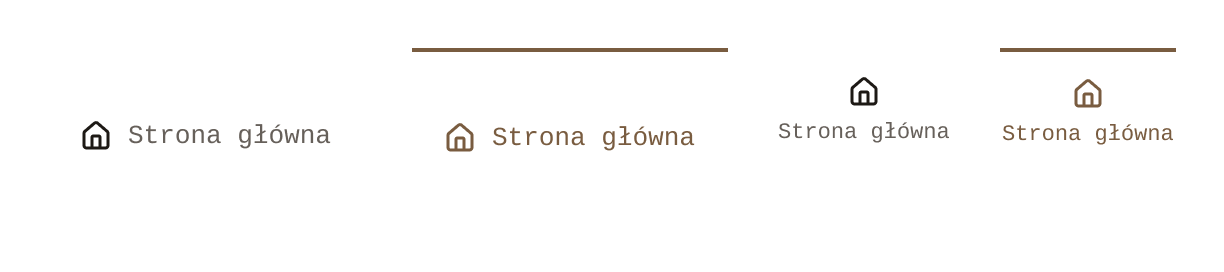
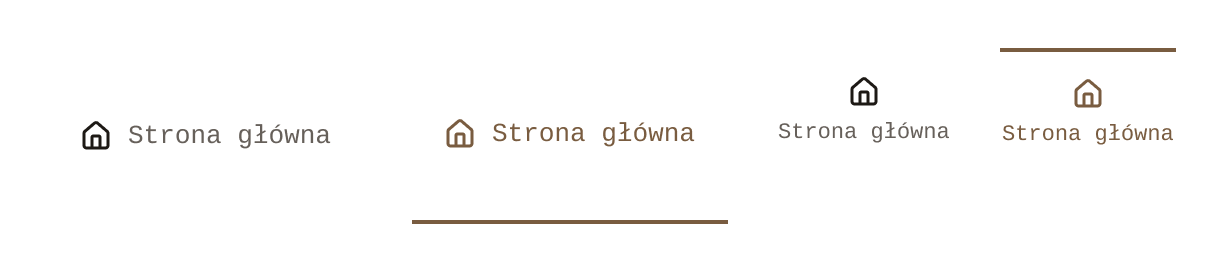
ARC-22: main navigation in a sticky header, without "Strona główna" (#87)
* ARC-22: main navigation in a sticky header, without "Strona główna"

Figma: the main navigation moves from the desktop footer to the site
header, before "O archiwum" and search; the header sticks to the top on
scroll; the active item is underlined. The home item is gone, since the
service name leads home. The mobile bottom bar keeps three items.

Code follows the re-exported design. The header row fits only from `lg`
up, so below `lg` the navigation stays a fixed bottom bar, and between
`lg` and `xl` the subtitle and navigation icons are hidden. R-07 is
updated in both story files.

* ARC-22: stretch only the navigation in the header; range variant for the compact header

---------

Changed region(s): [[0.3415, 0.4412, 0.5899, 0.5588], [0.3415, 0.7941, 0.5899, 0.8235], [0.3415, 0.1765, 0.5899, 0.2059]]

diff --git a/frontend/src/components/layout/SiteLayout.test.tsx b/frontend/src/components/layout/SiteLayout.test.tsx
@@ -6,7 +6,6 @@ import { axeViolations, renderRoute } from "@/test/render";
 import { server } from "@/test/server";
 
 const NAV_ITEMS = [
-  ["Strona główna", "/"],
   ["Utwory", "/utwory"],
   ["Maszynopisy", "/maszynopisy"],
   ["Tagi", "/tagi"],
@@ -123,7 +122,7 @@ describe("SiteLayout", () => {
     expect(within(header).getByRole("link", { name: "O archiwum" })).not.toHaveClass("hidden");
   });
 
-  it("US-RA-03 AC1: the main navigation lists Strona główna, Utwory, Maszynopisy, Tagi", async () => {
+  it("ARC-22: the main navigation lists Utwory, Maszynopisy, Tagi, with no home item", async () => {
     const { container } = renderRoute("/o-archiwum");
 
     const links = within(mainNav()).getAllByRole("link");
@@ -132,7 +131,6 @@ describe("SiteLayout", () => {
   });
 
   it.each([
-    ["/", "Strona główna"],
     ["/utwory", "Utwory"],
     ["/utwory/wertepy", "Utwory"],
     ["/maszynopisy", "Maszynopisy"],
@@ -147,7 +145,7 @@ describe("SiteLayout", () => {
     expect(await axeViolations(container)).toEqual([]);
   });
 
-  it.each(["/o-archiwum", "/szukaj", "/zapiski/1", "/teksty-sekundarne/1", "/materialy/1"])(
+  it.each(["/", "/o-archiwum", "/szukaj", "/zapiski/1", "/teksty-sekundarne/1", "/materialy/1"])(
     "US-RA-03 AC1: on %s no navigation item is active",
     (url) => {
       renderRoute(url);
@@ -156,30 +154,45 @@ describe("SiteLayout", () => {
     },
   );
 
-  it("US-RA-03 AC1: the footer shows the service name, subtitle, navigation and funding note", async () => {
+  it("US-RA-03 AC1: the footer shows the service name, subtitle and funding note", async () => {
     const { container } = renderRoute("/o-archiwum");
 
     const footer = screen.getByRole("contentinfo");
     expect(within(footer).getByText("Archivum Buczkovianum")).toBeVisible();
     expect(within(footer).getByText("Archiwum literackie Leopolda Buczkowskiego")).toBeVisible();
-    expect(within(footer).getByRole("navigation", { name: "Menu główne" })).toBe(mainNav());
     expect(within(footer).getByText(/finansowani/i)).toBeVisible();
     expect(await axeViolations(container)).toEqual([]);
   });
 
-  it("US-RA-03 AC1: the navigation is a bottom bar on mobile and sits in the footer on desktop", () => {
+  it("ARC-22: the navigation is in the header, not the footer", () => {
     renderRoute("/o-archiwum");
 
-    // Mobile first: fixed to the bottom of the viewport; from `md` up, part of the footer row.
-    expect(mainNav()).toHaveClass("fixed", "bottom-0", "md:static");
-    // The page leaves room for the bar on mobile, so it never covers the footer.
-    expect(screen.getByRole("contentinfo")).toHaveClass("pb-64", "md:pb-0");
+    expect(within(screen.getByRole("banner")).getByRole("navigation")).toBe(mainNav());
+    expect(within(screen.getByRole("contentinfo")).queryByRole("navigation")).toBeNull();
+  });
+
+  it("ARC-22: the navigation is a bottom bar below `lg` and part of the sticky header from `lg` up", () => {
+    renderRoute("/o-archiwum");
+
+    // Mobile and tablet: fixed to the bottom of the viewport. The header row fits the
+    // navigation, "O archiwum" and the search field only from `lg` up.
+    expect(mainNav()).toHaveClass("fixed", "bottom-0", "lg:static");
+    expect(screen.getByRole("banner")).toHaveClass("lg:sticky", "lg:top-0");
+    // The page leaves room for the bar, so it never covers the footer.
+    expect(screen.getByRole("contentinfo").parentElement).toHaveClass("pb-64", "lg:pb-0");
+  });
+
+  it("ARC-22: in the header the active item is underlined; in the bottom bar, overlined", () => {
+    renderRoute("/utwory");
+
+    // The header already has an accent strip along its top edge.
+    expect(currentNavItem()).toHaveClass("border-t-2", "lg:border-t-0", "lg:border-b-2");
   });
 
   it("ARC-5: a navigation label that wraps on mobile stays centred", () => {
     renderRoute("/o-archiwum");
 
-    // "Strona główna" breaks onto two lines on a narrow bar; the lines centre like the other labels.
+    // A long label breaks onto two lines on a narrow bar; the lines centre like the others.
     for (const [name] of NAV_ITEMS) {
       expect(within(mainNav()).getByRole("link", { name })).toHaveClass("text-center");
     }
@@ -194,17 +207,17 @@ describe("SiteLayout", () => {
     );
   });
 
-  it("ARC-27: the funding note never overlaps the navigation", () => {
+  it("ARC-22: between `lg` and `xl` the header drops the subtitle and the navigation icons", () => {
     renderRoute("/o-archiwum");
 
-    // A link that can't shrink spills past a shrunk bar, under the note. So the links shrink with
-    // the bar (labels wrap) on narrow desktops, and from `lg` the bar keeps their full width.
-    expect(mainNav()).toHaveClass("lg:shrink-0");
-    for (const [name] of NAV_ITEMS) {
-      expect(within(mainNav()).getByRole("link", { name })).toHaveClass(
-        "md:flex-initial",
-        "lg:flex-none",
-      );
+    // At 1024 px the full row (about 1060 px) is wider than the 896 px of content.
+    const header = screen.getByRole("banner");
+    expect(within(header).getByText("Archiwum literackie")).toHaveClass(
+      "hidden",
+      "lg:max-xl:hidden",
+    );
+    for (const icon of mainNav().querySelectorAll("svg")) {
+      expect(icon).toHaveClass("lg:max-xl:hidden");
     }
   });
 

diff --git a/frontend/src/components/layout/MainNav.tsx b/frontend/src/components/layout/MainNav.tsx
@@ -1,7 +1,7 @@
 import type { ComponentType, SVGProps } from "react";
 import { NavLink } from "react-router";
 
-import { HomeIcon, LibraryIcon, TagIcon, TypescriptIcon } from "@/components/icons";
+import { LibraryIcon, TagIcon, TypescriptIcon } from "@/components/icons";
 import { copy } from "@/copy/pl";
 import { cn } from "@/lib/utils";
 
@@ -13,10 +13,9 @@ interface NavItem {
 
 /**
  * The items of R-07. A link is active on its list and on every page under it (/utwory and
- * /utwory/:slug → Utwory); the home link only on `/`. Other pages have no active item.
+ * /utwory/:slug → Utwory). Other pages have no active item; the service name leads home.
  */
 const NAV_ITEMS: NavItem[] = [
-  { to: "/", label: copy.layout.nav.home, Icon: HomeIcon },
   { to: "/utwory", label: copy.layout.nav.works, Icon: LibraryIcon },
   { to: "/maszynopisy", label: copy.layout.nav.typescripts, Icon: TypescriptIcon },
   { to: "/tagi", label: copy.layout.nav.tags, Icon: TagIcon },
@@ -24,32 +23,33 @@ const NAV_ITEMS: NavItem[] = [
 
 /**
  * Main navigation ("Pozycja nawigacji" in design/components/). One element for both layouts:
- * a bar fixed to the bottom of the viewport on mobile (vertical items), part of the footer row
- * from `md` up (horizontal items). NavLink sets aria-current="page" on the active item.
+ * a bar fixed to the bottom of the viewport below `lg` (vertical items, active one overlined),
+ * part of the sticky header row from `lg` up (horizontal items, full header height, active one
+ * underlined). Between `lg` and `xl` the items drop their icons to fit the row.
+ * NavLink sets aria-current="page" on the active item.
  */
 export function MainNav() {
   return (
     <nav
       aria-label={copy.layout.navLabel}
-      className="fixed inset-x-0 bottom-0 z-10 flex border-t border-border bg-background md:static lg:shrink-0 md:border-t-0 md:bg-transparent"
+      className="fixed inset-x-0 bottom-0 z-10 flex border-t border-border bg-background lg:static lg:self-stretch lg:border-t-0 lg:bg-transparent"
     >
       {NAV_ITEMS.map(({ to, label, Icon }) => (
         <NavLink
           key={to}
           to={to}
-          end={to === "/"}
           className={({ isActive }) =>
             cn(
               "group flex h-64 flex-1 flex-col items-center justify-center gap-4 border-t-2 text-center border-transparent px-4 py-8",
               "text-cousine-metadane-male text-muted-foreground transition-colors duration-150 ease-out motion-reduce:transition-none",
               "hover:text-accent-foreground focus-visible:text-accent-foreground",
               "focus-visible:outline-2 focus-visible:-outline-offset-2 focus-visible:outline-ring",
-              "md:h-auto md:flex-initial lg:flex-none md:flex-row md:gap-8 md:px-16 md:py-32 md:text-cousine-nawigacja",
+              "lg:h-auto lg:flex-none lg:flex-row lg:gap-8 lg:border-t-0 lg:border-b-2 lg:px-16 lg:py-0 lg:text-cousine-nawigacja",
               isActive && "border-accent-border text-accent-foreground",
             )
           }
         >
-          <Icon className="size-16 text-icon group-aria-[current=page]:text-accent-icon" />
+          <Icon className="size-16 text-icon group-aria-[current=page]:text-accent-icon lg:max-xl:hidden" />
           {label}
         </NavLink>
       ))}

diff --git a/frontend/src/components/layout/SiteHeader.tsx b/frontend/src/components/layout/SiteHeader.tsx
@@ -2,6 +2,7 @@ import { type SubmitEvent, useState } from "react";
 import { Link, useNavigate } from "react-router";
 
 import { BookIcon, SearchIcon } from "@/components/icons";
+import { MainNav } from "@/components/layout/MainNav";
 import { SearchCombobox } from "@/components/SearchCombobox";
 import { copy } from "@/copy/pl";
 import { searchUrl } from "@/lib/search";
@@ -12,8 +13,10 @@ const FOCUS_CLASSES =
 const LINK_CLASSES = `transition-colors duration-150 ease-out motion-reduce:transition-none hover:text-accent-foreground focus-visible:text-accent-foreground ${FOCUS_CLASSES}`;
 
 /**
- * "Nagłówek serwisu" in design/components/: service name and subtitle, "O archiwum" and the
- * search field (R-07). On mobile the field becomes an icon linking to the search page.
+ * "Nagłówek serwisu" in design/components/: service name and subtitle (the way home), main
+ * navigation (see MainNav for its breakpoints), "O archiwum" and the search field (R-07). From
+ * `lg` up the header sticks to the top of the viewport. On mobile the field becomes an icon
+ * linking to the search page.
  */
 export function SiteHeader() {
   const [value, setValue] = useState("");
@@ -27,20 +30,25 @@ export function SiteHeader() {
   }
 
   return (
-    <header className="flex h-64 items-center justify-between border-t-3 border-b border-t-primary border-b-border bg-background px-page-mobile md:h-auto md:px-page md:py-32">
-      <Link to="/" className={`flex items-center gap-12 ${LINK_CLASSES}`}>
+    // From `lg` the logo's padding sets the row's height, and the navigation stretches to fill it,
+    // so the active item's underline meets the bottom border.
+    <header className="z-10 flex h-64 items-center justify-between border-t-3 border-b border-t-primary border-b-border bg-background px-page-mobile md:h-auto md:px-page md:py-32 lg:sticky lg:top-0 lg:items-stretch lg:py-0">
+      <Link to="/" className={`flex items-center gap-12 lg:py-32 ${LINK_CLASSES}`}>
         <BookIcon className="size-24 text-accent-icon" />
         <span className="text-lora-tekst text-foreground md:text-lora-tytul-elementu">
           {copy.siteName}
         </span>{" "}
         {/* Figma's mobile header drops the subtitle, so below `md` the link's accessible name is
             only "Archivum Buczkovianum". From `md` up, the space keeps the two parts apart:
-            "Archivum Buczkovianum Archiwum literackie". */}
-        <span className="hidden text-cousine-metadane-male text-muted-foreground md:inline">
+            "Archivum Buczkovianum Archiwum literackie". Between `lg` and `xl` the navigation
+            takes its room. */}
+        <span className="hidden text-cousine-metadane-male text-muted-foreground md:inline lg:max-xl:hidden">
           {copy.layout.headerSubtitle}
         </span>
       </Link>
-      <div className="flex items-center md:gap-32">
+      <div className="flex items-center md:gap-32 lg:self-stretch">
+        <MainNav />
+        <span aria-hidden="true" className="hidden h-24 w-px bg-border lg:block" />
         <Link to="/o-archiwum" className={`text-cousine-nawigacja text-foreground ${LINK_CLASSES}`}>
           {copy.layout.about}
         </Link>

diff --git a/frontend/src/components/layout/SiteFooter.tsx b/frontend/src/components/layout/SiteFooter.tsx
@@ -1,22 +1,20 @@
-import { MainNav } from "@/components/layout/MainNav";
 import { copy } from "@/copy/pl";
 
 /**
- * "Stopka" in design/components/: service name and subtitle, main navigation, funding note
- * (R-07). The funding note takes the place of Figma's language switch, which is out of scope
- * for v1. On mobile the navigation is a fixed bottom bar, so the footer leaves room for it.
+ * "Stopka" in design/components/: service name and subtitle, funding note (R-07). The funding
+ * note takes the place of Figma's language switch, which is out of scope for v1. The main
+ * navigation is in the header.
  */
 export function SiteFooter() {
   return (
-    <footer className="flex flex-col gap-12 border-t border-border bg-background px-page-mobile pt-24 pb-64 md:flex-row md:items-stretch md:justify-between md:gap-32 md:px-page md:pt-0 md:pb-0">
-      <div className="flex flex-col gap-4 md:self-center">
+    <footer className="flex flex-col gap-12 border-t border-border bg-background px-page-mobile py-24 md:flex-row md:items-center md:justify-between md:gap-32 md:px-page">
+      <div className="flex flex-col gap-4">
         <p className="text-cousine-etykieta text-foreground">{copy.siteName}</p>
         <p className="text-cousine-metadane-male text-muted-foreground">
           {copy.layout.footerSubtitle}
         </p>
       </div>
-      <MainNav />
-      <p className="pb-24 text-cousine-metadane text-muted-foreground md:self-center md:pb-0 md:text-right">
+      <p className="text-cousine-metadane text-muted-foreground md:text-right">
         {copy.layout.fundingNote}
       </p>
     </footer>

diff --git a/frontend/src/components/icons.tsx b/frontend/src/components/icons.tsx
@@ -40,19 +40,6 @@ export function BookIcon(props: IconProps) {
   );
 }
 
-/** design/assets/icons/dom.svg */
-export function HomeIcon(props: IconProps) {
-  return (
-    <Icon
-      {...props}
-      paths={[
-        "M10 14V8.66667C10 8.48986 9.92976 8.32029 9.80474 8.19526C9.67971 8.07024 9.51014 8 9.33333 8H6.66667C6.48986 8 6.32029 8.07024 6.19526 8.19526C6.07024 8.32029 6 8.48986 6 8.66667V14",
-        "M2 6.66667C1.99995 6.47271 2.04222 6.28108 2.12386 6.10514C2.20549 5.92921 2.32453 5.7732 2.47267 5.648L7.13933 1.64867C7.37999 1.44527 7.6849 1.33368 8 1.33368C8.3151 1.33368 8.62001 1.44527 8.86067 1.64867L13.5273 5.648C13.6755 5.7732 13.7945 5.92921 13.8761 6.10514C13.9578 6.28108 14 6.47271 14 6.66667V12.6667C14 13.0203 13.8595 13.3594 13.6095 13.6095C13.3594 13.8595 13.0203 14 12.6667 14H3.33333C2.97971 14 2.64057 13.8595 2.39052 13.6095C2.14048 13.3594 2 13.0203 2 12.6667V6.66667Z",
-      ]}
-    />
-  );
-}
-
 /** design/assets/icons/biblioteka.svg */
 export function LibraryIcon(props: IconProps) {
   return (

diff --git a/frontend/src/components/layout/SiteLayout.tsx b/frontend/src/components/layout/SiteLayout.tsx
@@ -3,10 +3,13 @@ import { Outlet } from "react-router";
 import { SiteFooter } from "@/components/layout/SiteFooter";
 import { SiteHeader } from "@/components/layout/SiteHeader";
 
-/** The page shell of every route (R-07). Each page renders its own `<main>`. */
+/**
+ * The page shell of every route (R-07). Each page renders its own `<main>`. Below `lg` the main
+ * navigation is a bar fixed to the bottom of the viewport, so the shell leaves room for it.
+ */
 export function SiteLayout() {
   return (
-    <div className="flex min-h-svh flex-col">
+    <div className="flex min-h-svh flex-col pb-64 lg:pb-0">
       <SiteHeader />
       <div className="flex flex-1 flex-col">
         <Outlet />

diff --git a/frontend/src/pages/HomePage.test.tsx b/frontend/src/pages/HomePage.test.tsx
@@ -104,11 +104,6 @@ describe("HomePage", () => {
     order.slice(1).forEach((element, index) => {
       expect(precedes(order[index] as Element, element)).toBe(true);
     });
-    const nav = screen.getByRole("navigation", { name: "Menu główne" });
-    expect(within(nav).getByRole("link", { name: "Strona główna" })).toHaveAttribute(
-      "aria-current",
-      "page",
-    );
     expect(await axeViolations(container)).toEqual([]);
   });
 

diff --git a/frontend/src/copy/pl.ts b/frontend/src/copy/pl.ts
@@ -70,7 +70,6 @@ export const copy = {
     about: "O archiwum",
     navLabel: "Menu główne",
     nav: {
-      home: "Strona główna",
       works: "Utwory",
       typescripts: "Maszynopisy",
       tags: "Tagi",

diff --git a/design/components/stopka.md b/design/components/stopka.md
@@ -1,6 +1,6 @@
 # Stopka
 
-Aktywna pozycja wynika z typu strony: strona główna → Strona główna; utwór → Utwory; maszynopis → Maszynopisy; tag → Tagi; wyszukiwanie, tekst sekundarny, O archiwum → brak aktywnej.
+Desktop: nazwa serwisu z opisem i informacja w prawej kolumnie; nawigacja główna jest w nagłówku serwisu. Mobile: nawigacja główna w dolnym pasku przypiętym do dołu ekranu (Utwory, Maszynopisy, Tagi). Aktywna pozycja wynika z typu strony: utwór → Utwory; maszynopis → Maszynopisy; tag → Tagi; strona główna, wyszukiwanie, tekst sekundarny, O archiwum → brak aktywnej.
 
 ## Properties
 
@@ -14,18 +14,12 @@ Aktywna pozycja wynika z typu strony: strona główna → Strona główna; utwó
   - box "Sygnatura" · flex-column · gap var(--space-4) · w hug, h hug
     - text "Nazwa" · .text-cousine-etykieta · color var(--color-text-primary) · “Archivum Buczkovianum”
     - text "Opis" · .text-cousine-metadane-male · color var(--color-text-secondary) · “Archiwum literackie Leopolda Buczkowskiego”
-  - box "Nawigacja główna" · flex-row · gap 0px · w hug, h hug
-    - **Pozycja nawigacji [Układ=Poziomy, Stan=Domyślna]** {Etykieta=“Strona główna”, Układ=“Poziomy”, Stan=“Domyślna”} · flex-row · gap var(--space-8) · padding 0px var(--space-16) 0px var(--space-16) · align center · w hug, h 88px
-    - **Pozycja nawigacji [Układ=Poziomy, Stan=Domyślna]** {Etykieta=“Utwory”, Układ=“Poziomy”, Stan=“Domyślna”} · flex-row · gap var(--space-8) · padding 0px var(--space-16) 0px var(--space-16) · align center · w hug, h 88px
-    - **Pozycja nawigacji [Układ=Poziomy, Stan=Domyślna]** {Etykieta=“Maszynopisy”, Układ=“Poziomy”, Stan=“Domyślna”} · flex-row · gap var(--space-8) · padding 0px var(--space-16) 0px var(--space-16) · align center · w hug, h 88px
-    - **Pozycja nawigacji [Układ=Poziomy, Stan=Domyślna]** {Etykieta=“Tagi”, Układ=“Poziomy”, Stan=“Domyślna”} · flex-row · gap var(--space-8) · padding 0px var(--space-16) 0px var(--space-16) · align center · w hug, h 88px
   - text "Język" · .text-cousine-metadane · color var(--color-text-secondary) · “Polski / Українська”
 
 ### Rozmiar=Mobile
 
 - box "Rozmiar=Mobile" · flex-column · gap 0px · w 390px, h hug · bg var(--color-bg-page) · border-top 1px var(--color-border-subtle)
   - box "Nawigacja główna" · flex-row · gap 0px · w fill, h hug
-    - **Pozycja nawigacji [Układ=Pionowy, Stan=Domyślna]** {Etykieta=“Strona główna”, Układ=“Pionowy”, Stan=“Domyślna”} · flex-column · gap var(--space-4) · padding var(--space-8) var(--space-4) var(--space-8) var(--space-4) · justify center · align center · w fill, h 64px
     - **Pozycja nawigacji [Układ=Pionowy, Stan=Domyślna]** {Etykieta=“Utwory”, Układ=“Pionowy”, Stan=“Domyślna”} · flex-column · gap var(--space-4) · padding var(--space-8) var(--space-4) var(--space-8) var(--space-4) · justify center · align center · w fill, h 64px
     - **Pozycja nawigacji [Układ=Pionowy, Stan=Domyślna]** {Etykieta=“Maszynopisy”, Układ=“Pionowy”, Stan=“Domyślna”} · flex-column · gap var(--space-4) · padding var(--space-8) var(--space-4) var(--space-8) var(--space-4) · justify center · align center · w fill, h 64px
     - **Pozycja nawigacji [Układ=Pionowy, Stan=Domyślna]** {Etykieta=“Tagi”, Układ=“Pionowy”, Stan=“Domyślna”} · flex-column · gap var(--space-4) · padding var(--space-8) var(--space-4) var(--space-8) var(--space-4) · justify center · align center · w fill, h 64px

diff --git a/design/components/naglowek-serwisu.md b/design/components/naglowek-serwisu.md
@@ -1,6 +1,8 @@
 # Nagłówek serwisu
 
-Mobile: ikona wyszukiwania to link do strony wyszukiwania (aria-label „Szukaj w archiwum”). Nawigacja główna mobile jest w dolnym pasku.
+Desktop: nawigacja główna (Utwory, Maszynopisy, Tagi) przed „O archiwum” i wyszukiwaniem. Nagłówek jest przyklejony do góry ekranu (sticky) i zostaje widoczny przy przewijaniu. Logo prowadzi do strony głównej; strona główna nie ma pozycji w menu. Aktywna pozycja: utwór → Utwory; maszynopis → Maszynopisy; tag → Tagi; pozostałe strony → brak aktywnej.
+
+Mobile: ikona wyszukiwania to link do strony wyszukiwania (aria-label „Szukaj w archiwum”). Nawigacja główna mobile jest w dolnym pasku przypiętym do dołu ekranu.
 
 ## Properties
 
@@ -16,6 +18,11 @@ Mobile: ikona wyszukiwania to link do strony wyszukiwania (aria-label „Szukaj 
     - text "Nazwa" · .text-lora-tytul-elementu · color var(--color-text-primary) · “Archivum Buczkovianum”
     - text "Podpis" · .text-cousine-metadane-male · color var(--color-text-secondary) · “Archiwum literackie”
   - box "Nawigacja" · flex-row · gap var(--space-32) · align center · w hug, h hug
+    - box "Nawigacja główna" · flex-row · gap 0px · w hug, h hug
+      - **Pozycja nawigacji [Układ=Poziomy, Stan=Domyślna]** {Etykieta=“Utwory”, Układ=“Poziomy”, Stan=“Domyślna”} · flex-row · gap var(--space-8) · padding 0px var(--space-16) 0px var(--space-16) · align center · w hug, h 88px
+      - **Pozycja nawigacji [Układ=Poziomy, Stan=Domyślna]** {Etykieta=“Maszynopisy”, Układ=“Poziomy”, Stan=“Domyślna”} · flex-row · gap var(--space-8) · padding 0px var(--space-16) 0px var(--space-16) · align center · w hug, h 88px
+      - **Pozycja nawigacji [Układ=Poziomy, Stan=Domyślna]** {Etykieta=“Tagi”, Układ=“Poziomy”, Stan=“Domyślna”} · flex-row · gap var(--space-8) · padding 0px var(--space-16) 0px var(--space-16) · align center · w hug, h 88px
+    - rect "Separator" · w 1px, h 24px · bg var(--color-border-subtle)
     - text "O archiwum" · .text-cousine-nawigacja · color var(--color-text-primary) · “O archiwum”
     - box "Szukaj" · flex-row · gap var(--space-8) · align center · w hug, h hug
       - **Ikona/szukaj** · w 16px, h 16px

diff --git a/docs/user-stories.pl.md b/docs/user-stories.pl.md
@@ -59,11 +59,11 @@ Na telefonie kolejność to: kolumna główna, kontekst, tagi, materiały kontek
 
 **R-07 Nagłówek, menu, stopka.**
 
-- Nagłówek: nazwa serwisu i podtytuł (link do strony głównej), link „O archiwum”, pasek wyszukiwania.
-- Menu główne: Strona główna, Utwory, Maszynopisy, Tagi. Na komputerze jest w stopce. Na telefonie jest dolnym paskiem, a wyszukiwarka zamienia się w ikonę lupy w nagłówku.
-- Stopka: nazwa serwisu i podtytuł, menu główne (na komputerze), informacja o finansowaniu.
+- Nagłówek: nazwa serwisu i podtytuł (link do strony głównej), menu główne (na komputerze), link „O archiwum”, pasek wyszukiwania. Na komputerze nagłówek zostaje u góry ekranu podczas przewijania.
+- Menu główne: Utwory, Maszynopisy, Tagi. Nie ma pozycji strony głównej: prowadzi do niej nazwa serwisu. Na komputerze jest w nagłówku. Na telefonie jest dolnym paskiem przypiętym do dołu ekranu, a wyszukiwarka zamienia się w ikonę lupy w nagłówku.
+- Stopka: nazwa serwisu i podtytuł, informacja o finansowaniu.
 
-Aktywna pozycja menu: strona główna → Strona główna; lista utworów i utwór → Utwory; lista maszynopisów i maszynopis → Maszynopisy; lista tagów i tag → Tagi. Pozostałe strony nie mają aktywnej pozycji.
+Aktywna pozycja menu: lista utworów i utwór → Utwory; lista maszynopisów i maszynopis → Maszynopisy; lista tagów i tag → Tagi. Pozostałe strony nie mają aktywnej pozycji.
 
 **R-08 Blok materiałów kontekstowych.** Blok „Materiały kontekstowe” ma dwie części:
 

diff --git a/docs/user-stories.md b/docs/user-stories.md
@@ -55,11 +55,11 @@ On mobile the order is: main, context, tags, contextual materials.
 
 **R-07 Header, navigation, footer.**
 
-- Header: service name and subtitle (links to home), "O archiwum" link, search field.
-- Main navigation: Strona główna, Utwory, Maszynopisy, Tagi. On desktop it is in the footer. On mobile it is a bottom bar, and search becomes an icon in the header.
-- Footer: service name and subtitle, main navigation (desktop), funding note.
+- Header: service name and subtitle (links to home), main navigation (desktop), "O archiwum" link, search field. On desktop the header sticks to the top of the screen while scrolling.
+- Main navigation: Utwory, Maszynopisy, Tagi. There is no home item: the service name leads home. On desktop it is in the header. On mobile it is a bottom bar fixed to the bottom of the screen, and search becomes an icon in the header.
+- Footer: service name and subtitle, funding note.
 
-Active navigation item: home → Strona główna; works list and work → Utwory; typescripts list and typescript → Maszynopisy; tags list and tag → Tagi. Other pages have none.
+Active navigation item: works list and work → Utwory; typescripts list and typescript → Maszynopisy; tags list and tag → Tagi. Other pages have none.
 
 **R-08 Contextual materials block.** Titled "Materiały kontekstowe", in two parts:
 
